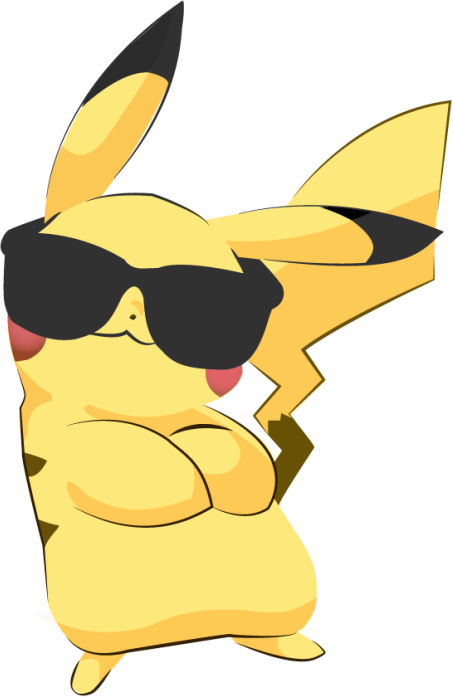
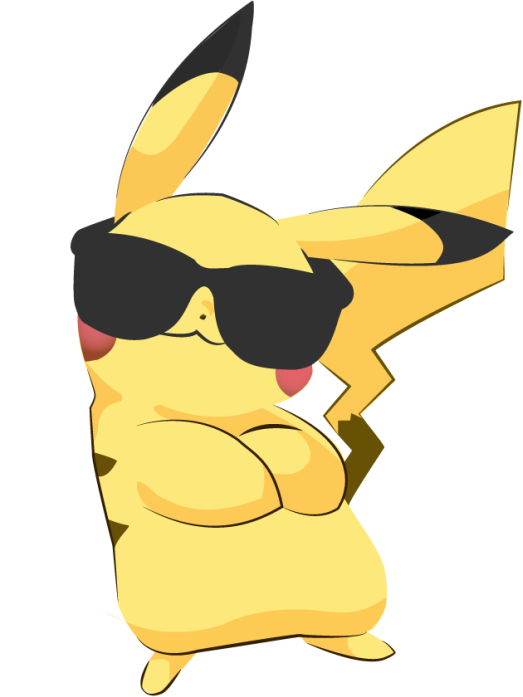
changed ending image size

Changed region(s): [[0.0, 0.0, 1.0, 1.0]]

diff --git a/src/pages/Home/style.module.css b/src/pages/Home/style.module.css
@@ -5,7 +5,8 @@
 }
 
 .image {
-  margin-top: 35px;
+  margin-top: 30px;
+  margin-bottom: 30px;
   width: 300px;
   height: auto;
 }
